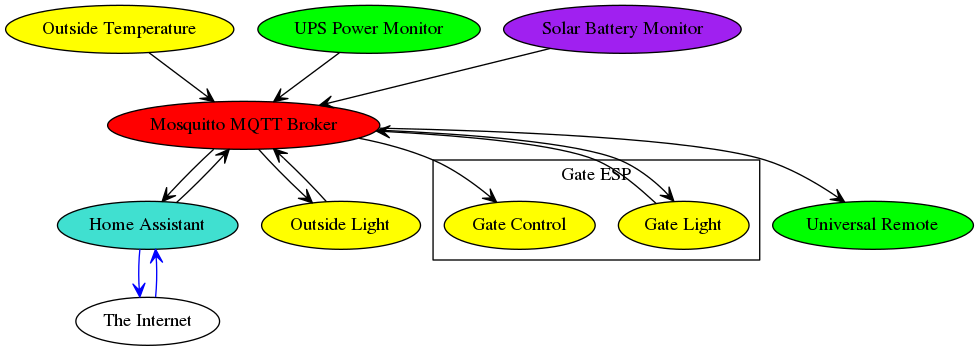
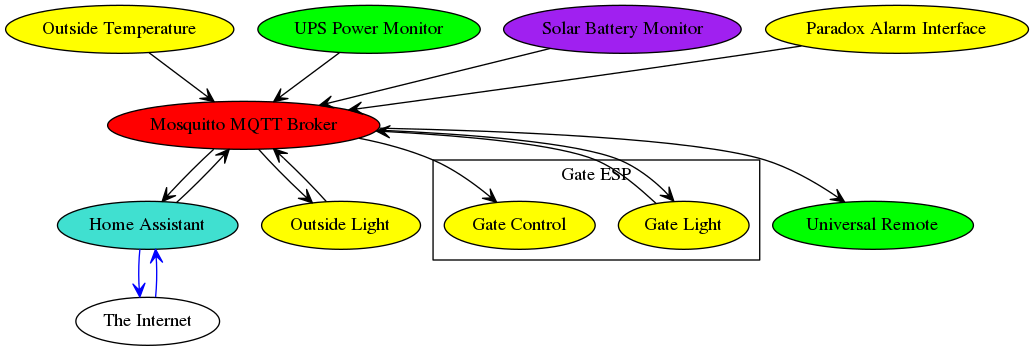
Updated overview file. Corrected some home assistant config files. Removed uneccessary logging from MQTT powermonitor

diff --git a/Power Monitor/powermonitor.py b/Power Monitor/powermonitor.py
@@ -9,12 +9,14 @@ class PowerData:
     input_voltage = 0
     output_voltage = 0
     battery_voltage = 0
+    mqtt_connected = False
 
     old_power_state = 2
     old_power_percent = 0
     old_input_voltage = 0
     old_output_voltage = 0
     old_battery_voltage = 0
+    old_mqtt_connected = False
 
     def __init__(self):
         logdiagdata("Power Class Created\n\r")
@@ -26,6 +28,7 @@ class PowerData:
         self.old_input_voltage = 0
         self.old_output_voltage = 0
         self.old_battery_voltage = 0
+        self.old_mqtt_connected = False
 
 def logdiagdata(logstring):
     global target_log       
@@ -36,16 +39,21 @@ def logdiagdata(logstring):
 # The callback for when the client receives a CONNACK response from the server.
 def on_connect(client, userdata, rc):
     logdiagdata("Connected with result code "+str(rc))
+    userdata.mqtt_connected = True
     # Subscribing in on_connect() means that if we lose the connection and
     # reconnect then subscriptions will be renewed.
-    client.subscribe("$SYS/#")
+    # client.subscribe("$SYS/#")
+
+def on_disconnect(client, userdata, rc):
+    userdata.mqtt_connected = False
+    logdiagdata("Disconnected with result code "+str(rc))
 
 # The callback for when a PUBLISH message is received from the server.
 def on_message(client, userdata, msg):
     logdiagdata(msg.topic+" "+str(msg.payload))
 
 def on_publish(mosq, obj, mid):
-    logdiagdata("mid: " + str(mid))
+    logdiagdata("Published: " + str(mid))
 
 def on_subscribe(mosq, obj, mid, granted_qos):
     logdiagdata("Subscribed: " + str(mid) + " " + str(granted_qos))
@@ -61,73 +69,81 @@ def runPowerQuery(client,pd):
             if matchObj.group(2) == "OL":
                 pd.power_state = 1
                 if pd.old_power_state != pd.power_state:
-                    client.publish("homeassistant/sensor/powersystem/powerstatus","PG")
+                    l_mqtt_publish(client,"homeassistant/sensor/powersystem/powerstatus","PG")
             else:
                 pd.power_state = 0
                 if pd.old_power_state != pd.power_state:
-                    client.publish("homeassistant/sensor/powersystem/powerstatus","PF")
+                    l_mqtt_publish(client,"homeassistant/sensor/powersystem/powerstatus","PF")
                 pd.old_power_state = pd.power_state
 
         matchObj = None 
         matchObj = re.match(r'(battery.charge: )(.*)',line)
         if matchObj:
-            pd.power_percent = int(float(matchObj.group(2))) 
-            logdiagdata("Battery Charge: "+str(pd.power_percent))
+            pd.power_percent = int(float(matchObj.group(2)))             
             if pd.old_power_percent != pd.power_percent:
-                client.publish("homeassistant/sensor/powersystem/powerpercent",pd.power_percent)
+                logdiagdata("Battery Charge: "+str(pd.power_percent))
+                l_mqtt_publish(client,"homeassistant/sensor/powersystem/powerpercent",pd.power_percent)
                 pd.old_power_percent = pd.power_percent
 
         matchObj = None 
         matchObj = re.match(r'(input.voltage: )(.*)',line)
         if matchObj:            
-            pd.input_voltage = int(float(matchObj.group(2)))           
-            logdiagdata("Input Voltage: "+str(pd.input_voltage))
+            pd.input_voltage = int(float(matchObj.group(2)))            
             if pd.old_input_voltage != pd.input_voltage:
-                client.publish("homeassistant/sensor/powersystem/inputvoltage",pd.input_voltage)
+                logdiagdata("Input Voltage: "+str(pd.input_voltage))
+                l_mqtt_publish(client,"homeassistant/sensor/powersystem/inputvoltage",pd.input_voltage)
                 pd.old_input_voltage = pd.input_voltage
 
         matchObj = None 
         matchObj = re.match(r'(output.voltage: )(.*)',line)
         if matchObj:            
-            pd.output_voltage = int(float(matchObj.group(2)))
-            logdiagdata("Output Voltage: "+str(pd.output_voltage)) 
+            pd.output_voltage = int(float(matchObj.group(2)))            
             if pd.old_output_voltage != pd.output_voltage:
-                client.publish("homeassistant/sensor/powersystem/outputvoltage",pd.output_voltage)         
+                logdiagdata("Output Voltage: "+str(pd.output_voltage)) 
+                l_mqtt_publish(client,"homeassistant/sensor/powersystem/outputvoltage",pd.output_voltage)         
                 pd.old_output_voltage = pd.output_voltage
 
         matchObj = None 
         matchObj = re.match(r'(battery.voltage: )(.*)',line)
         if matchObj:            
-            pd.battery_voltage = float(matchObj.group(2))
-            logdiagdata("Battery Voltage: "+str(pd.battery_voltage))
+            pd.battery_voltage = float(matchObj.group(2))     
+            logdiagdata("Got UPS Data...")       
             if pd.old_battery_voltage != pd.battery_voltage:
-                client.publish("homeassistant/sensor/powersystem/batteryvoltage",pd.battery_voltage)            
+                logdiagdata("Battery Voltage: "+str(pd.battery_voltage))
+                l_mqtt_publish(client,"homeassistant/sensor/powersystem/batteryvoltage",pd.battery_voltage)            
                 pd.old_battery_voltage = pd.battery_voltage
 
-def main():
-    client = mqtt.Client()
-    p = PowerData()
-    client.on_connect = on_connect
-    client.on_message = on_message
-    client.on_publish = on_publish
-    client.on_subscribe = on_subscribe
-    flush_counter = 0
-
-    client.connect("192.168.1.54", 1883, 60)    
-    while True:
-        client.loop()
-        runPowerQuery(client,p)
-        flush_counter = flush_counter + 1
-        time.sleep(1)
-        if (flush_counter > 30):
-            logdiagdata("Data Flush")
-            p.flush()
-            flush_counter = 0
+def l_mqtt_publish(client,topic,data):
+    try:
+        client.publish(topic,data)            
+    except:
+        logdiagdata("Could not publish to topic "+topic)
+        client.disconnect()
 
 target_log = open("powermon.log",'w')
 target_log.write("File Log Start.....")
 logdiagdata("Waiting for startup to be complete...")
 time.sleep(20)
 logdiagdata("Startup complete!")
+p = PowerData()
+client = mqtt.Client(userdata=p)
+client.on_connect       = on_connect
+client.on_message       = on_message
+client.on_publish       = on_publish
+client.on_subscribe     = on_subscribe
+client.on_disconnect    = on_disconnect
+flush_counter = 0
 
-main()
+while True:            
+    if p.mqtt_connected == False:
+        logdiagdata("Connecting")
+        client.connect("192.168.1.54", 1883, 60)
+        client.loop_start()        
+    # client.loop()
+    runPowerQuery(client,p)
+    flush_counter = flush_counter + 1
+    time.sleep(1)
+    if (flush_counter > 30):
+        logdiagdata("Data Flush")
+        p.flush()
+        flush_counter = 0

diff --git a/Doc/overview.py b/Doc/overview.py
@@ -36,8 +36,10 @@ node_i = pydot.Node("The Internet",
                     style="filled", fillcolor="white")
 
 # Universal Remote Control
-node_j = pydot.Node("Universal Remote",
-                    style="filled", fillcolor="green")
+node_j = pydot.Node("Universal Remote", style="filled", fillcolor="green")
+
+# Alarm system interface
+node_k = pydot.Node("Paradox Alarm Interface", style="filled", fillcolor="yellow")
 
 # now we add the nodes to the graph
 graph.add_node(node_a)
@@ -57,6 +59,8 @@ graph.add_node(node_i)
 
 graph.add_node(node_j)
 
+graph.add_node(node_k)
+
 graph.set_edge_defaults(color="black", arrowhead="vee", weight="0")
 graph.add_edge(pydot.Edge(node_a, node_b))
 graph.add_edge(pydot.Edge(node_b, node_a))
@@ -74,6 +78,8 @@ graph.add_edge(pydot.Edge(node_a, node_e))
 graph.add_edge(pydot.Edge(node_e, node_a))
 
 graph.add_edge(pydot.Edge(node_a, node_f))
+
+graph.add_edge(pydot.Edge(node_k, node_a))
 
 graph.set_edge_defaults(color="blue", arrowhead="vee", weight="0")
 graph.add_edge(pydot.Edge(node_i, node_b))
